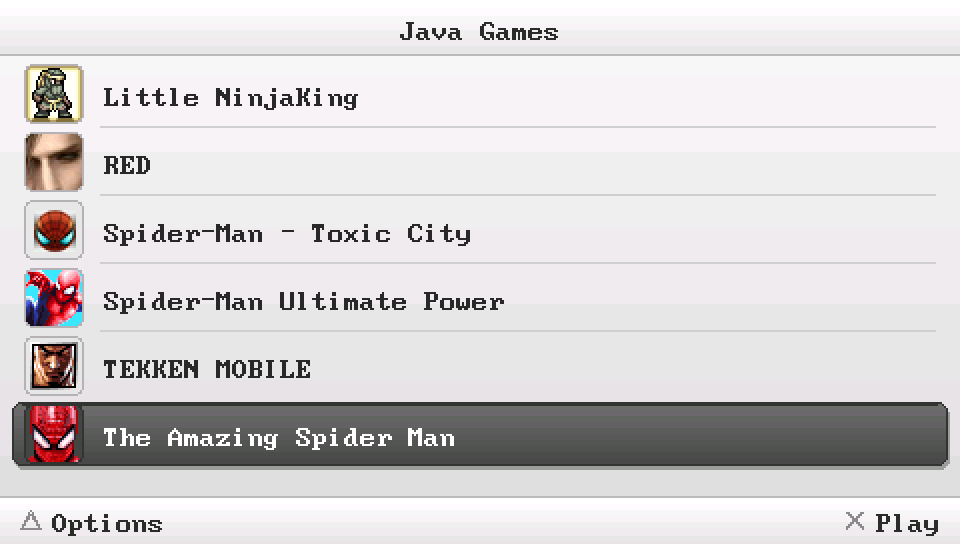
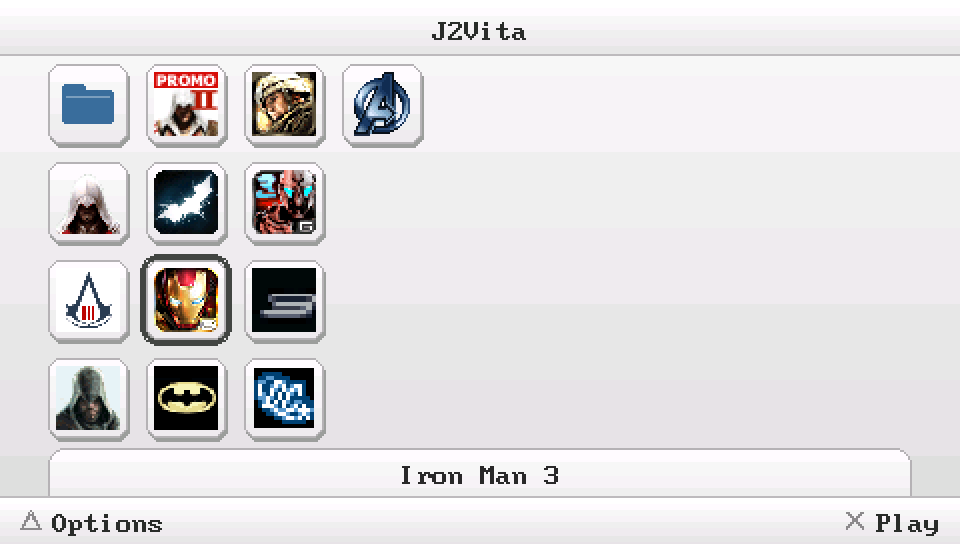
README and version 0.9.2

Changed region(s): [[0.0, 0.0312, 1.0, 0.9062]]

diff --git a/README.md b/README.md
@@ -19,12 +19,13 @@ input, sound, menus) was rewritten for the Vita.
 > **No games are included here or in the release.** Bring your own `.jar` files.
 
 <p align="center">
-  <img src="screenshots/launcher.png" alt="Game list" width="400"/>
-  <img src="screenshots/gameplay.png" alt="The Amazing Spider-Man running" width="400"/>
+  <img src="screenshots/launcher.png" alt="Game list with folders" width="400"/>
+  <img src="screenshots/menu.png" alt="In-game menu" width="400"/>
 </p>
 <p align="center">
-  <img src="screenshots/ingame-menu.png" alt="In-game menu" width="400"/>
-  <img src="screenshots/options.png" alt="Options" width="400"/>
+  <img src="screenshots/display.png" alt="Display settings with Auto resolution" width="265"/>
+  <img src="screenshots/controls.png" alt="Controls settings" width="265"/>
+  <img src="screenshots/keypad.png" alt="On-screen keypad settings" width="265"/>
 </p>
 
 The game compatibility list lives on the [project page](https://kiddrwxssj.github.io/j2vita/).
@@ -37,11 +38,14 @@ with [ShaRKBR33D](https://github.com/Rinnegatamante/ShaRKBR33D/releases) if you 
 
 Then add some games:
 
-1. Copy your `.jar` files to `ux0:data/j2vita/games/`.
-2. Open J2Vita. New games are installed on their own and show up in the list.
+1. Copy your `.jar` files to `ux0:data/j2vita/games/`. Subfolders work too, and `.zip` files
+   with JARs inside are unpacked for you.
+2. Open J2Vita. New games are installed on their own and show up in the list, even when you copy
+   them while J2Vita is open.
 3. Pick a game and press Cross.
 
 To update a game, overwrite its `.jar`. Deleting a game from the list also deletes its `.jar`.
+Moving `.jar` files between folders, from J2Vita or from VitaShell, keeps their saves.
 
 ```
 ux0:data/j2vita/
@@ -58,24 +62,29 @@ Games keep their saves in `ux0:data/j2vita/appdb/`, so updating J2Vita doesn't t
 
 | Vita | Does |
 |---|---|
-| Cross | Play |
-| Triangle / L / Start | Options: delete, settings, quit |
+| Cross | Play, open a folder |
+| Circle | Back to the parent folder |
+| Triangle / L | Options: move to folder, delete, new/rename/delete folder, settings, quit |
 | SELECT | Settings |
+
+You can also drag the list with your finger. Tap a game to select it and tap it again to start it.
 
 **In game** (defaults; every game can have its own mapping)
 
 | Vita | Phone key |
 |---|---|
 | D-Pad / Left stick | Arrows (or 2 4 6 8, see "D-pad sends") |
-| Cross | 5 |
+| Cross | Fire (5) |
 | Circle / R | Right soft key |
 | L / Start | Left soft key |
 | Square / Triangle | `*` / `#` |
 | Right stick | 2 / 8 / 4 / 6 |
+| Rear touchpad left / right half | 1 / 3 |
 | SELECT (tap) | Menu, the game pauses |
 | SELECT (hold) | On-screen keypad |
 
-The touchscreen works as the phone's touchscreen.
+The touchscreen works as the phone's touchscreen. Set a rear touchpad half to `None` in Controls
+if you keep touching it by accident.
 
 The **on-screen keypad** is there for cheat codes and anything that needs a key the Vita doesn't
 have. Move with the D-Pad, press with Cross (it's held for as long as you hold Cross), Square moves
@@ -89,10 +98,24 @@ the keypad to the other side and Circle hides it. You can also just tap the keys
   only remembers what you change inside it; everything else keeps following the global settings.
 * **Themes**: White (default), Black, Blue and Green.
 * **Performance overlay**: `FPS` shows the frame rate, `Full` adds how busy the Java VM is. Java
-  games pick their own frame rate, so a low number isn't always a problem: if the load stays under
-  ~97% the game is running at the speed it was made for. `CPU bound` means the Vita can't keep up.
-* **Resolution** is guessed from the game's name and manifest the first time. If a game looks
-  cropped or tiny, change it and restart the game.
+  games pick their own frame rate, so a low number isn't always a problem. `Game limit` means the
+  game is waiting on its own timer and runs at the speed it was made for. `CPU limit` means the
+  Vita is what holds it back, and `14/16 FPS` shows the rate the game would like to reach.
+* **Adjust screen**: drag, pinch and twist to move, zoom and rotate the picture, the on-screen
+  keypad and the button HUD. Each game keeps its own layout.
+* **Button HUD**: a small bar that shows which phone key each Vita button sends, the rear touchpad
+  halves included (and the screen borders in `Buttons` mode).
+* **Touch screen**: `Pointer` passes touches to the game, `Buttons` turns the screen borders
+  around the picture into two extra buttons (set them in Controls).
+* **Auto-detect keys**: on a game's first start J2Vita looks at its code and sets up the soft keys,
+  2/4/6/8 and the four extra buttons (Square, Triangle and the rear touchpad halves) with the keys
+  the game uses most.
+* **On-screen keypad**: size and opacity can be changed, `Always` keeps it up for playing with
+  touch while the buttons still go to the game.
+* **Resolution** is `Auto` by default: J2Vita starts with a guess from the game's name, manifest
+  and pictures, then switches to the size the game actually draws at (480x800 included). Portrait
+  games taller than the Vita screen are turned on their side. You can still pick a fixed size.
+* **Menus**: the in-game menu is split into Display, Controls and On-screen keypad.
 * **Text entry**: open the on-screen keypad and pick **Text** to type with the Vita keyboard.
 
 ## What works
